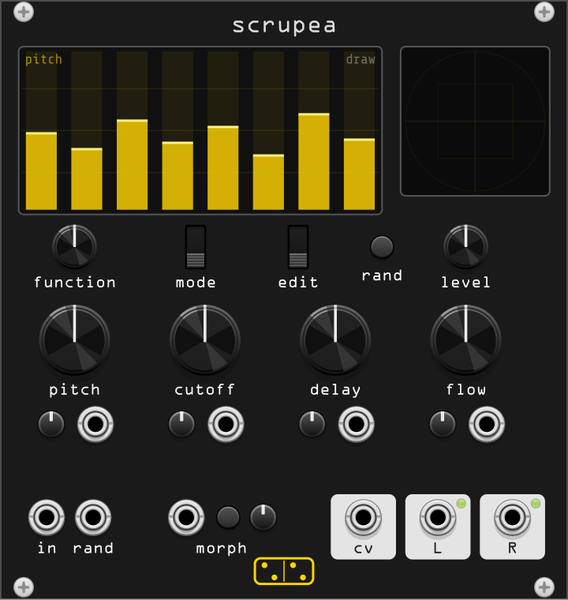
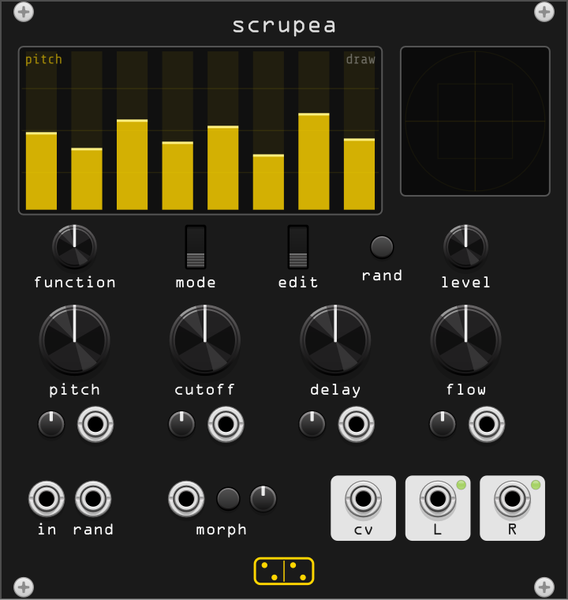
fix(scrupea): pull the in/out row up 4mm
Folding the attenuverters and CV jacks into a triangle freed a row, and
all of it landed between the triangle row and the bottom of the panel.
Move the in/out row up so the badges clear the logo by the same 3.75mm
the rest of the collection uses.

Claude-Session: https://claude.ai/code/session_01XJnnZWwVUvyoRqaXzf7SYY

Changed region(s): [[0.5687, 0.78, 0.9577, 0.96], [0.2993, 0.78, 0.5088, 0.93], [0.0299, 0.78, 0.2095, 0.93]]

diff --git a/src/scrupea.cpp b/src/scrupea.cpp
@@ -916,19 +916,19 @@ struct ScrupeaWidget : ModuleWidget {
 // @elem CUTOFF_CV_INPUT PJ301MPort 4.01 input "" 0.0 48.50 91.00
 // @elem DELAY_CV_INPUT PJ301MPort 4.01 input "" 0.0 76.50 91.00
 // @elem FLOW_CV_INPUT PJ301MPort 4.01 input "" 0.0 104.50 91.00
-// @elem AUDIO_INPUT PJ301MPort 4.01 input "" 0.0 10.00 111.00
-// @elem RAND_INPUT PJ301MPort 4.01 input "" 0.0 20.00 111.00
-// @elem MORPH_INPUT PJ301MPort 4.01 input "" 0.0 40.00 111.00
-// @elem MORPH_PARAM TL1105 2.6 param "" 0.0 49.00 111.00
-// @elem MORPH_TIME_PARAM Trimpot 2.5 param "" 0.0 56.50 111.00
-// @elem CV_OUTPUT PJ301MPort 4.01 output "" 0.0 78.00 111.00
-// @elem LEFT_OUTPUT PJ301MPort 4.01 output "" 0.0 94.00 111.00
-// @elem RIGHT_OUTPUT PJ301MPort 4.01 output "" 0.0 110.00 111.00
-// @elem LEFT_LIGHT SmallLight 1.0 light "" 0.0 99.00 108.00
-// @elem RIGHT_LIGHT SmallLight 1.0 light "" 0.0 115.00 108.00
-// @elem BOX_CV panel_box 7.0 box "" 0.0 78.00 113.00
-// @elem BOX_LEFT panel_box 7.0 box "" 0.0 94.00 113.00
-// @elem BOX_RIGHT panel_box 7.0 box "" 0.0 110.00 113.00
+// @elem AUDIO_INPUT PJ301MPort 4.01 input "" 0.0 10.00 107.00
+// @elem RAND_INPUT PJ301MPort 4.01 input "" 0.0 20.00 107.00
+// @elem MORPH_INPUT PJ301MPort 4.01 input "" 0.0 40.00 107.00
+// @elem MORPH_PARAM TL1105 2.6 param "" 0.0 49.00 107.00
+// @elem MORPH_TIME_PARAM Trimpot 2.5 param "" 0.0 56.50 107.00
+// @elem CV_OUTPUT PJ301MPort 4.01 output "" 0.0 78.00 107.00
+// @elem LEFT_OUTPUT PJ301MPort 4.01 output "" 0.0 94.00 107.00
+// @elem RIGHT_OUTPUT PJ301MPort 4.01 output "" 0.0 110.00 107.00
+// @elem LEFT_LIGHT SmallLight 1.0 light "" 0.0 99.00 104.00
+// @elem RIGHT_LIGHT SmallLight 1.0 light "" 0.0 115.00 104.00
+// @elem BOX_CV panel_box 7.0 box "" 0.0 78.00 109.00
+// @elem BOX_LEFT panel_box 7.0 box "" 0.0 94.00 109.00
+// @elem BOX_RIGHT panel_box 7.0 box "" 0.0 110.00 109.00
 // @elem LABEL_FUNC label 0.0 label "function" 0.0 16.00 61.50
 // @elem LABEL_MODE label 0.0 label "mode" 0.0 42.00 61.50
 // @elem LABEL_EDIT label 0.0 label "edit" 0.0 64.00 61.50
@@ -938,12 +938,12 @@ struct ScrupeaWidget : ModuleWidget {
 // @elem LABEL_CUTOFF label 0.0 label "cutoff" 0.0 44.00 84.50
 // @elem LABEL_DELAY label 0.0 label "delay" 0.0 72.00 84.50
 // @elem LABEL_FLOW label 0.0 label "flow" 0.0 100.00 84.50
-// @elem LABEL_AUDIO label 0.0 label "in" 0.0 10.00 118.50
-// @elem LABEL_RAND_INPUT label 0.0 label "rand" 0.0 20.00 118.50
-// @elem LABEL_MORPH_PARAM label 0.0 label "morph" 0.0 47.50 118.50
-// @elem LABEL_CV label 0.0 label "cv" 0.0 78.00 118.50
-// @elem LABEL_LEFT label 0.0 label "L" 0.0 94.00 118.50
-// @elem LABEL_RIGHT label 0.0 label "R" 0.0 110.00 118.50
+// @elem LABEL_AUDIO label 0.0 label "in" 0.0 10.00 114.50
+// @elem LABEL_RAND_INPUT label 0.0 label "rand" 0.0 20.00 114.50
+// @elem LABEL_MORPH_PARAM label 0.0 label "morph" 0.0 47.50 114.50
+// @elem LABEL_CV label 0.0 label "cv" 0.0 78.00 114.50
+// @elem LABEL_LEFT label 0.0 label "L" 0.0 94.00 114.50
+// @elem LABEL_RIGHT label 0.0 label "R" 0.0 110.00 114.50
 // @elem LOGO forsitan_logo 0.0 logo "" 0.0 60.96 122.50
 
         addChild(createWidget<ScrewSilver>(mm2px(Vec(2.54f, 0.00f)))); // SCREW_TL
@@ -967,16 +967,16 @@ struct ScrupeaWidget : ModuleWidget {
         addInput(createInputCentered<PJ301MPort>(mm2px(Vec(48.50f, 91.00f)), module, Scrupea::CUTOFF_CV_INPUT));
         addInput(createInputCentered<PJ301MPort>(mm2px(Vec(76.50f, 91.00f)), module, Scrupea::DELAY_CV_INPUT));
         addInput(createInputCentered<PJ301MPort>(mm2px(Vec(104.50f, 91.00f)), module, Scrupea::FLOW_CV_INPUT));
-        addInput(createInputCentered<PJ301MPort>(mm2px(Vec(10.00f, 111.00f)), module, Scrupea::AUDIO_INPUT));
-        addInput(createInputCentered<PJ301MPort>(mm2px(Vec(20.00f, 111.00f)), module, Scrupea::RAND_INPUT));
-        addInput(createInputCentered<PJ301MPort>(mm2px(Vec(40.00f, 111.00f)), module, Scrupea::MORPH_INPUT));
-        addParam(createParamCentered<TL1105>(mm2px(Vec(49.00f, 111.00f)), module, Scrupea::MORPH_PARAM));
-        addParam(createParamCentered<Trimpot>(mm2px(Vec(56.50f, 111.00f)), module, Scrupea::MORPH_TIME_PARAM));
-        addOutput(createOutputCentered<PJ301MPort>(mm2px(Vec(78.00f, 111.00f)), module, Scrupea::CV_OUTPUT));
-        addOutput(createOutputCentered<PJ301MPort>(mm2px(Vec(94.00f, 111.00f)), module, Scrupea::LEFT_OUTPUT));
-        addOutput(createOutputCentered<PJ301MPort>(mm2px(Vec(110.00f, 111.00f)), module, Scrupea::RIGHT_OUTPUT));
-        addChild(createLightCentered<SmallLight<GreenLight>>(mm2px(Vec(99.00f, 108.00f)), module, Scrupea::LEFT_LIGHT));
-        addChild(createLightCentered<SmallLight<GreenLight>>(mm2px(Vec(115.00f, 108.00f)), module, Scrupea::RIGHT_LIGHT));
+        addInput(createInputCentered<PJ301MPort>(mm2px(Vec(10.00f, 107.00f)), module, Scrupea::AUDIO_INPUT));
+        addInput(createInputCentered<PJ301MPort>(mm2px(Vec(20.00f, 107.00f)), module, Scrupea::RAND_INPUT));
+        addInput(createInputCentered<PJ301MPort>(mm2px(Vec(40.00f, 107.00f)), module, Scrupea::MORPH_INPUT));
+        addParam(createParamCentered<TL1105>(mm2px(Vec(49.00f, 107.00f)), module, Scrupea::MORPH_PARAM));
+        addParam(createParamCentered<Trimpot>(mm2px(Vec(56.50f, 107.00f)), module, Scrupea::MORPH_TIME_PARAM));
+        addOutput(createOutputCentered<PJ301MPort>(mm2px(Vec(78.00f, 107.00f)), module, Scrupea::CV_OUTPUT));
+        addOutput(createOutputCentered<PJ301MPort>(mm2px(Vec(94.00f, 107.00f)), module, Scrupea::LEFT_OUTPUT));
+        addOutput(createOutputCentered<PJ301MPort>(mm2px(Vec(110.00f, 107.00f)), module, Scrupea::RIGHT_OUTPUT));
+        addChild(createLightCentered<SmallLight<GreenLight>>(mm2px(Vec(99.00f, 104.00f)), module, Scrupea::LEFT_LIGHT));
+        addChild(createLightCentered<SmallLight<GreenLight>>(mm2px(Vec(115.00f, 104.00f)), module, Scrupea::RIGHT_LIGHT));
         // @layout:end
     }
 
